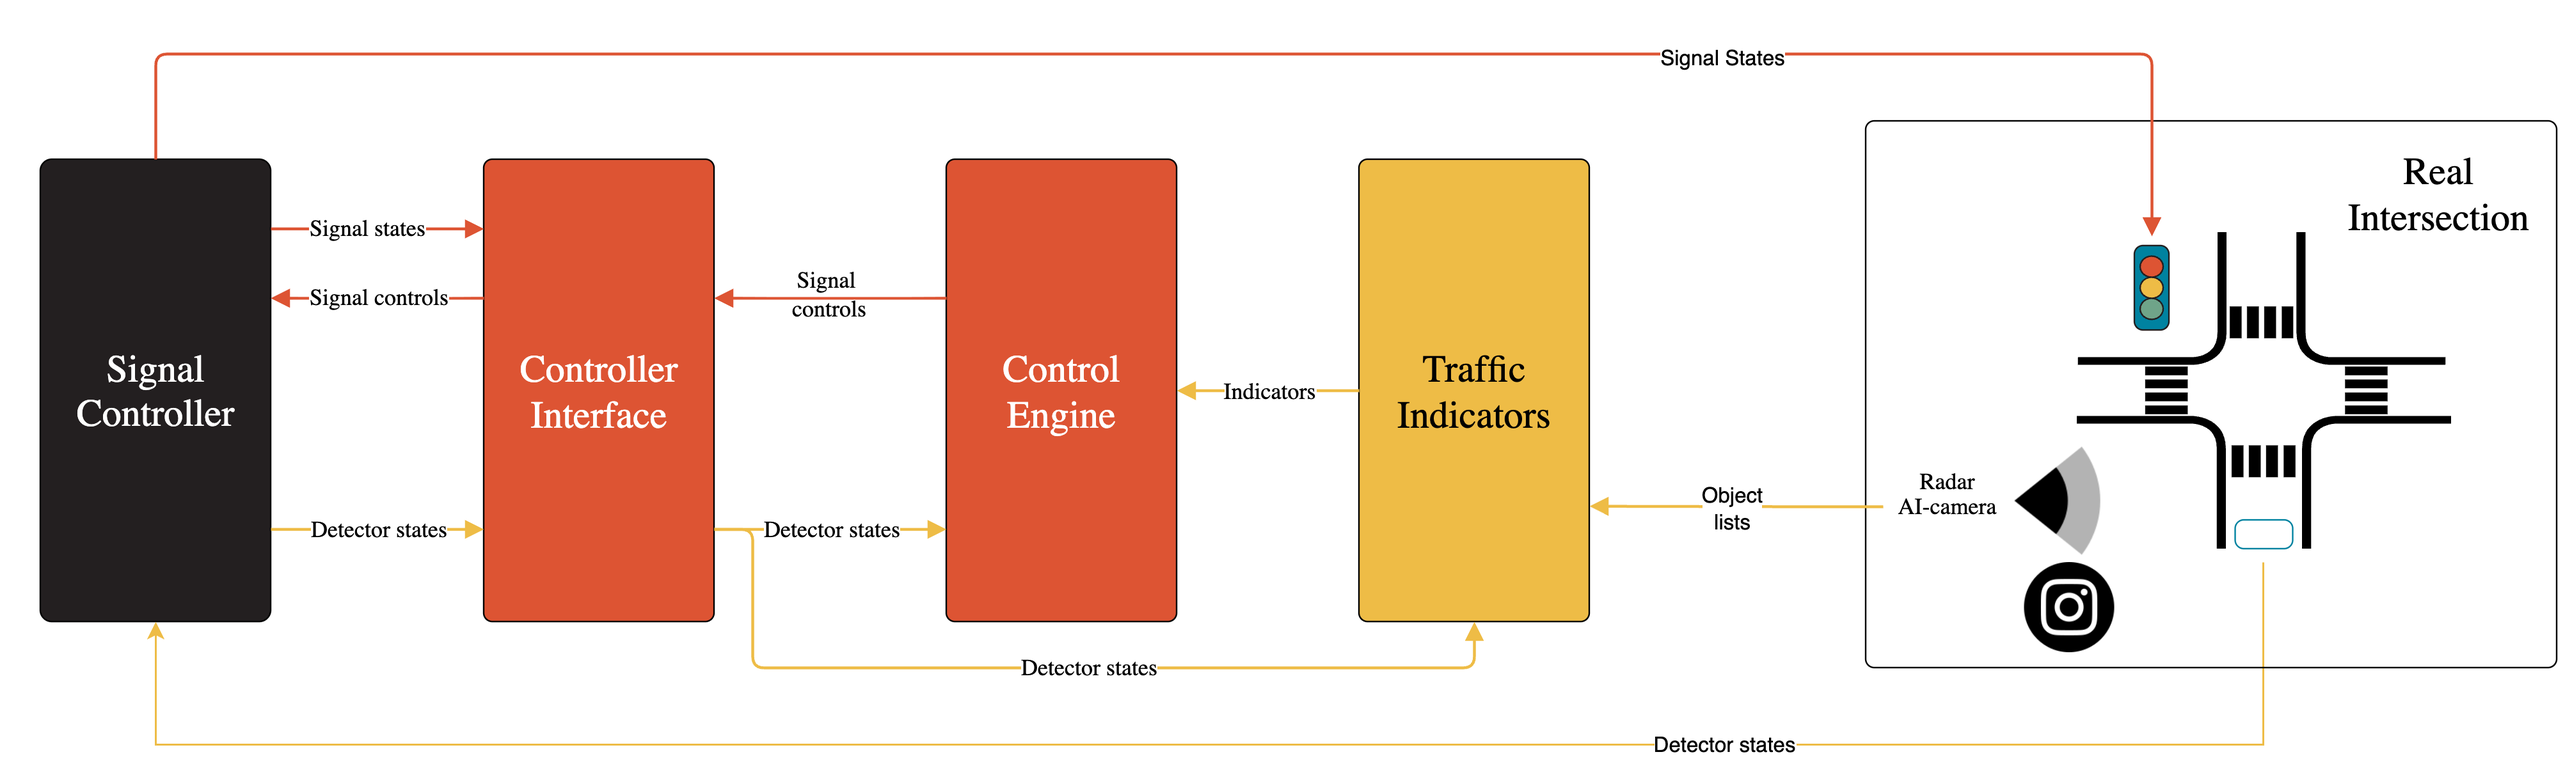
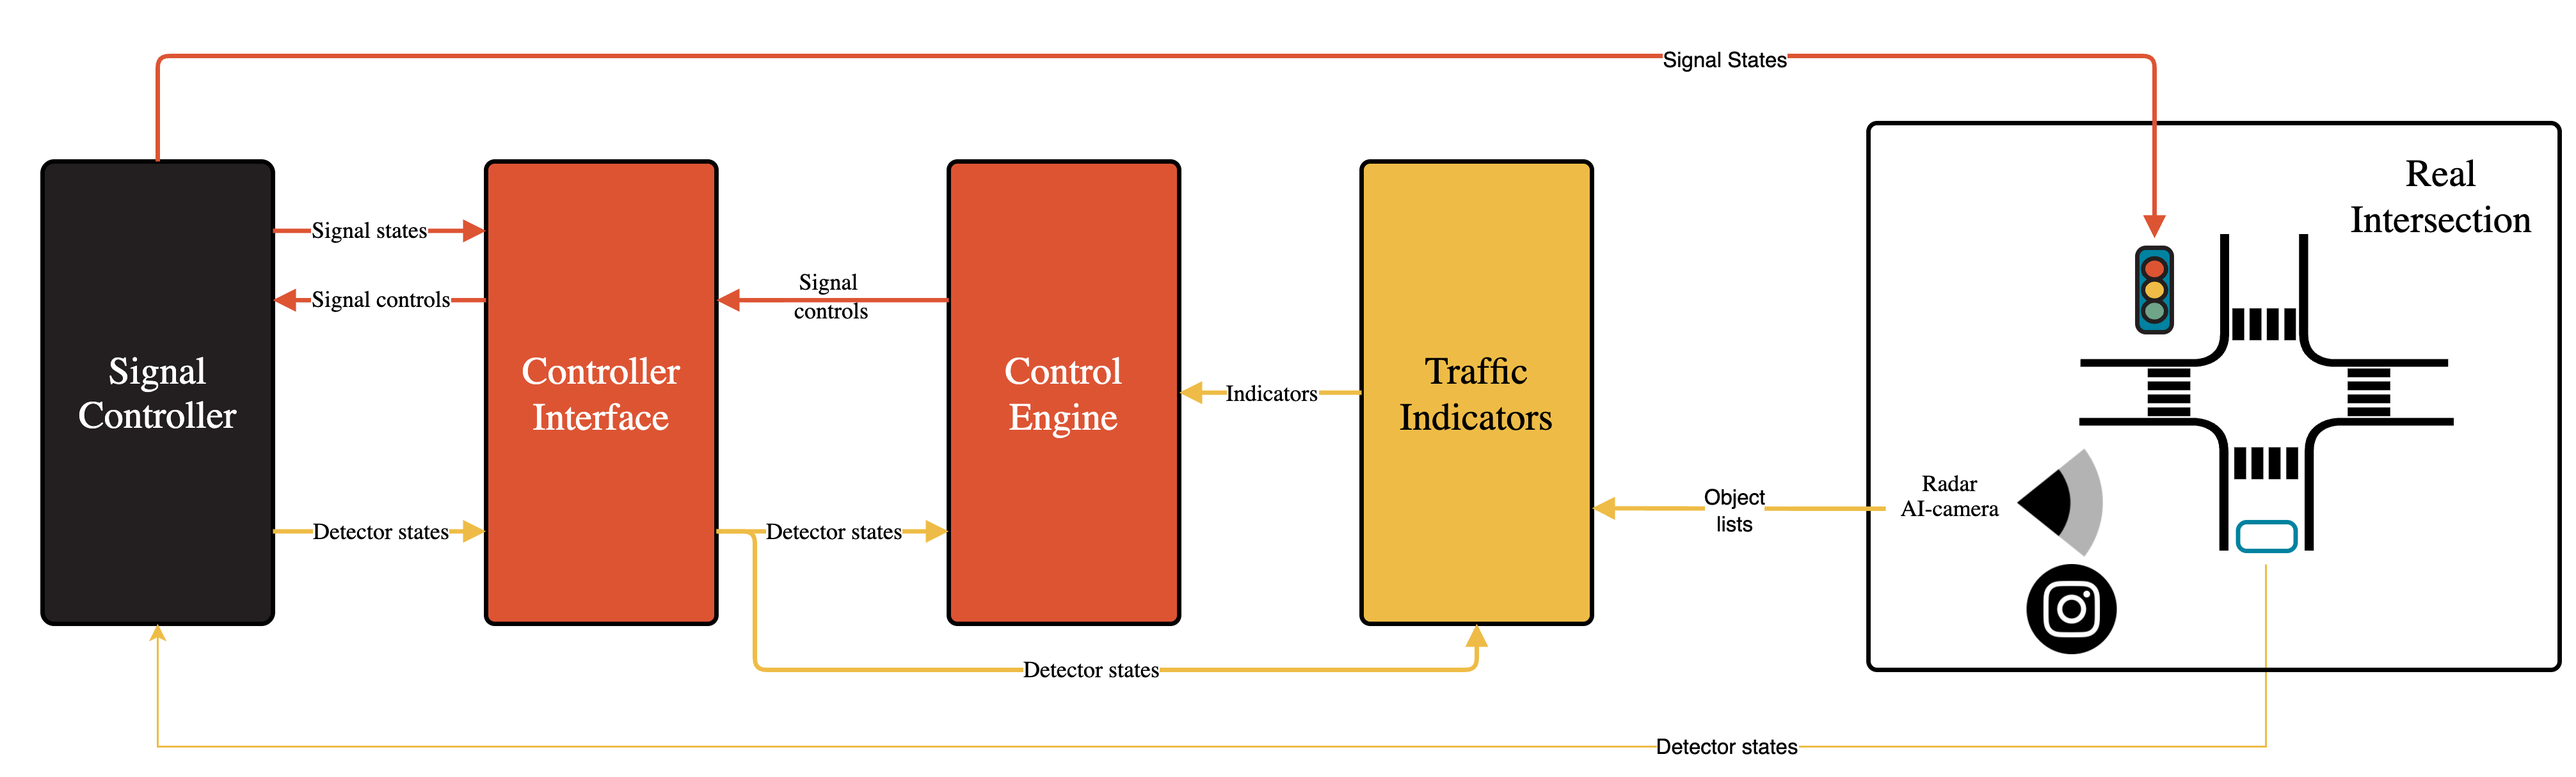
Consistent line widtsh, added instructions

diff --git a/doc/dia/README.md b/doc/dia/README.md
@@ -1,0 +1,49 @@
+# Diagram Style and Export Notes
+
+This folder contains the source diagrams used in `README.md`.
+
+## Naming
+
+- Keep draw.io tab names aligned with README image filenames (lowercase snake_case).
+- Current tab/file naming:
+  - `open_controller_overview` -> `doc/images/open_controller_overview.png`
+  - `sim_integrated` -> `doc/images/sim_integrated.png`
+  - `hwil_sim` -> `doc/images/hwil_sim.png`
+  - `live_control` -> `doc/images/live_control.png`
+  - `nats_messages` (not currently exported to README from this file)
+
+## Style (Brand Consistency)
+
+- Font family: `poppins`
+- Brand black: `#231f20` (use for text, box outlines, arrow strokes, black fills)
+- Brand red: `#dd5433`
+- Brand yellow: `#eebc46`
+- Brand green: `#6fa489`
+- Visible stroke widths (boxes + arrows): `2.3 pt`
+
+### draw.io cleanup rules
+
+- Avoid hidden secondary colors:
+  - If `fillOpacity=0`, use `fillColor=none` (not a hidden color value).
+- Avoid mixed black fill + non-black outline unless intentionally white-on-black styling is required.
+- draw.io can visually show stale/cached style colors in UI; trust the XML style values and exported PNGs.
+
+## Export (README PNGs)
+
+Use high-resolution PNG export with border/margin:
+
+- Format: `png`
+- Scale: `3`
+- Border: `20`
+
+### Important
+
+Do not rely on draw.io `--page-index` for this file. It has produced wrong page mappings in practice.
+
+Instead:
+
+1. Split the multi-page `.drawio` into one-page temporary `.drawio` files in tab order.
+2. Export each split file directly to the matching `doc/images/*.png`.
+
+This makes the mapping deterministic even if tabs are renamed.
+
